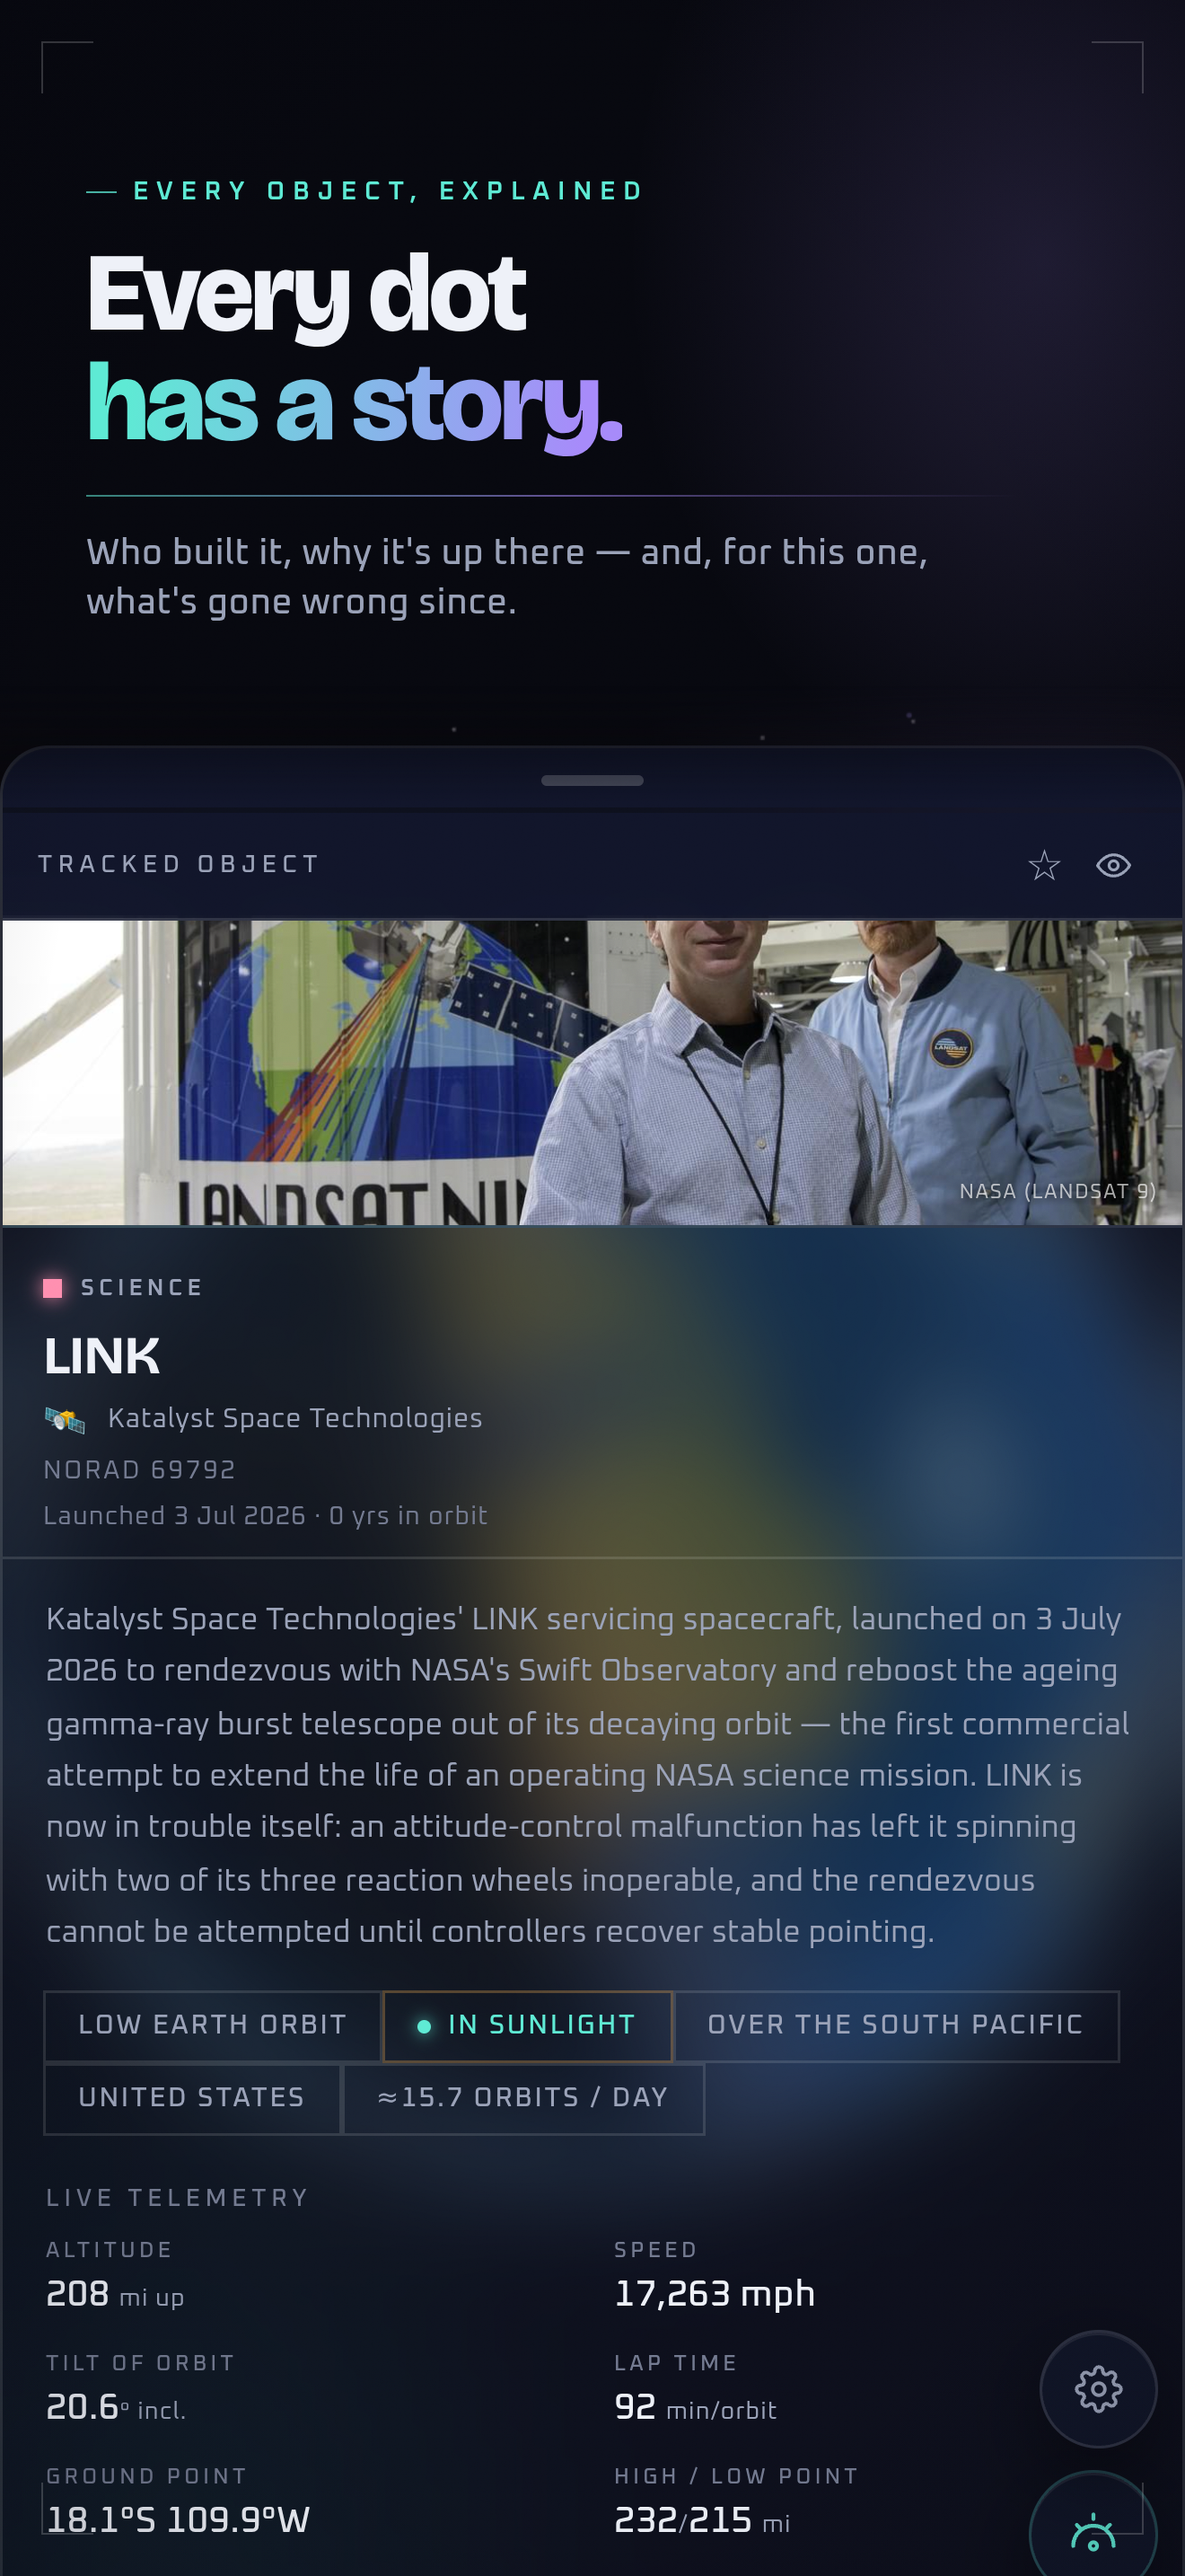
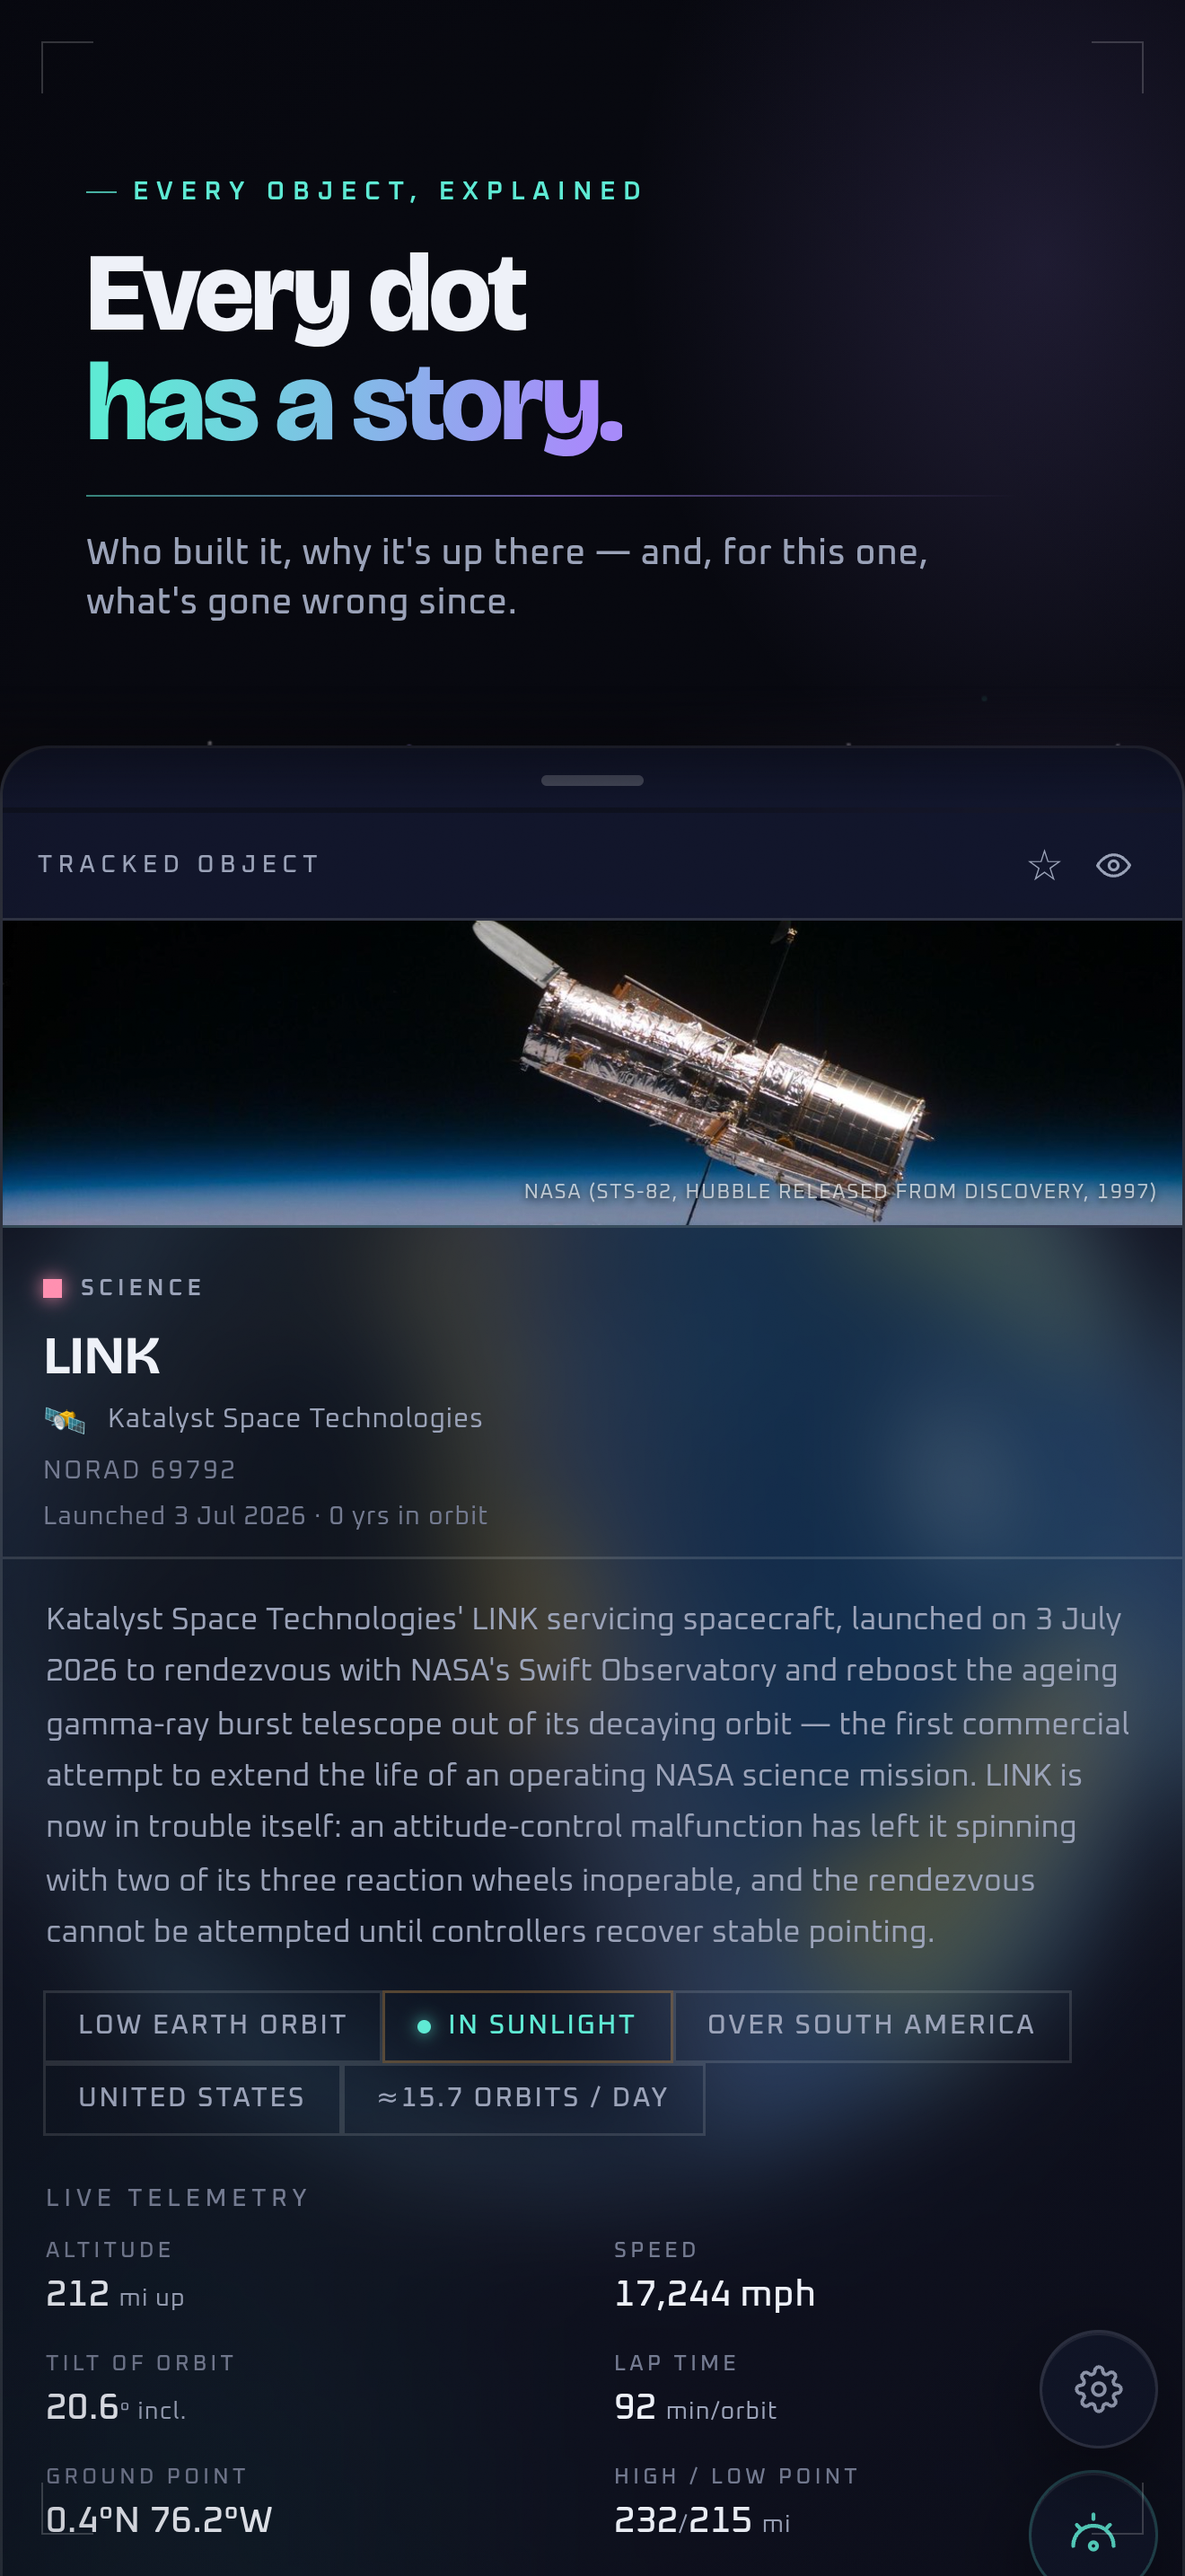
Fix screenshot photo provenance, overhead copy, and add a daylight globe
Four review fixes.

1. The "SOURCE UNCONFIRMED — PRE-EXISTING IMAGE" line is gone from every
screenshot. It was not debug text: the app draws it from photos.json's
`credit` field, and it was the honest label for images whose origin
nobody had established. Hiding it in the capture would have cleaned up
the marketing while leaving the rights problem in the shipped app, so the
three photos this set uses were replaced with NASA public-domain images
carrying verifiable IDs — iss066e081189 (ISS from Crew Dragon Endeavour's
flyaround), iss073e0505071 (Crew-11 Dragon approaching the ISS) and
s82e5937 (Hubble separating from Discovery on STS-82). The credit line
now names a real source, so the text is absent because it is no longer
true rather than because it was suppressed. Note this touches app data,
not just the screenshot kit, so it only reaches users once merged; the
README says so and records the full provenance table.

2. What's Overhead's headline and subhead replaced. The headline now runs
to three lines — two plain, then "Tap and find out." in the gradient —
so this frame drops to 96px type and starts its panel lower. The body
copy underneath loses the "overhead your location" slip; it reads "See
which satellites are currently above your location" rather than the
suggested "Tap and see ...", since the gradient line above it already
opens with "Tap".

3. LINK's photo is no longer the Landsat 9 press shot of two identifiable
[…]

diff --git a/exports/app-store-screenshots/README.md b/exports/app-store-screenshots/README.md
@@ -30,10 +30,16 @@ sky it draws is visibly, alarmingly crowded.
 | # | File | Says | Shows |
 |---|---|---|---|
 | 1 | `01-look-up.png` | Look up. **It's crowded.** | The live globe, terminator down the left limb, night-side city lights, full Orbit Classes legend |
-| 2 | `02-overhead.png` | Right now, **See what objects are overhead** | What's Overhead from Los Angeles — category chips, tier-ranked list |
+| 2 | `02-overhead.png` | What's flying over your head right now? **Tap and find out.** | What's Overhead from Los Angeles — category chips, tier-ranked list |
 | 3 | `03-every-dot.png` | Every dot **has a story.** | LINK's card — photo, identity, and the full curated write-up down to its failing reaction wheels |
 | 4 | `04-capsules.png` | Follow the fleet, **launch to landing.** | Crew Dragon 12 mid-mission: its photo, its DOCKED phase block ("at ISS · 33 days in this phase") and recent activity |
 | 5 | `05-crew.png` | Seven people **live up there.** | The ISS card: photo, live crew, expedition, today's activity |
+| 6 | `06-daylight.png` | Real sunlight, **real shadow.** | The daylight companion to shot 1 — one zoom step further out, sunlit hemisphere facing the camera |
+
+Shot 6 is captured by sweeping the camera past the terminator and keeping the
+frame with the highest mean luminance, rather than by a fixed rotation: which
+angle lands on full daylight depends on where the sun is at capture time, so a
+hard-coded drag count would silently produce a night shot on a later re-run.
 
 Shot 2 is the conversion shot. A globe is impressive; *your* sky is personal.
 
@@ -110,17 +116,37 @@ retired orbit ring.
 1080×1350. It isn't in the final five — the set was stronger with the crew shot
 — but it's the cleanest single asset for social or a press kit.
 
+## Photo provenance
+
+Every object photo in this set is a NASA public-domain image with a verifiable
+ID, sourced from `images-api.nasa.gov`. None contains an identifiable person.
+
+| Slot | NASA ID | Subject |
+|---|---|---|
+| `iss` | `iss066e081189` | ISS from Crew Dragon Endeavour's flyaround, 8 Nov 2021 |
+| `dragon` | `iss073e0505071` | Crew-11 Dragon approaching the ISS, 2 Aug 2025 |
+| `science_generic` pool[1] | `s82e5937` | Hubble separating from Discovery after release, STS-82, Feb 1997 |
+
+This replaced three images the app was shipping under the credit "Source
+unconfirmed — pre-existing image" (`iss`, `dragon`) and a NASA Landsat 9 press
+photo of two identifiable people (`science_generic` pool[1], which is the entry
+LINK's ID hashes to). The credit line the app draws over each photo now names a
+real source, so the "source unconfirmed" text is absent from these screenshots
+because it is no longer true — not because it was hidden.
+
+**These are app-data changes, not screenshot-only ones**
+(`apps/web/public/data/photos.json` plus three files in
+`apps/web/public/photos/`), so they only reach users once merged. They are
+separable from the screenshots if you would rather land them on their own.
+
 ## Known issues these screenshots had to work around
 
-1. **Photo provenance — visible on shots 4 and 5.** 11 of the 20 entries in
-   `apps/web/public/data/photos.json` — including `iss`, `hubble`, `jwst`,
-   `dragon`, `soyuz`, `cygnus` and all five asteroids — are credited "Source
-   unconfirmed — pre-existing image", and the app renders that credit over the
-   photo. Both card shots that show an object photo therefore carry that line,
-   small, at the photo's bottom right. Unknown provenance is a rights problem
-   on a public store listing regardless of the screenshots; replacing those 11
-   files with properly-licensed NASA/ESA/SpaceX imagery fixes the listing and
-   the app in one move, and these screenshots would only need a re-run.
+1. **14 photo entries elsewhere in the app are still unconfirmed.** `hubble`,
+   `jwst`, `soyuz`, `cygnus`, all five asteroids, and index 0 of each of the
+   five generic pools still carry "Source unconfirmed — pre-existing image".
+   None of them appears in this screenshot set, but each is the same rights
+   question, and any of them can surface in the app the moment a user taps the
+   wrong object. The three above show the pattern for fixing the rest.
 2. **The mobile clock reads 12-hour with no meridiem.** `clock.js` renders
    `.utc-compact` as `6:44 UTC` when it is 18:44 UTC (the share card's own
    timestamp correctly says `18:44 UTC`). It's deliberate CSS, but it sits in
@@ -128,7 +154,8 @@ retired orbit ring.
 3. **Time Machine can't be shown at all.** `#time` is `display:none !important`
    under 768px — it's desktop-only, so it cannot appear in an iPhone
    screenshot.
-4. **LINK's photo is a category-generic Landsat 9 press image.** Correctly
-   credited, and shown by request, but at a glance it reads as "this is
-   Landsat" rather than as an illustration of the science category. A curated
-   photo for LINK, or a procedural fallback, would both be clearer.
+4. **LINK still shows a category-generic photo**, now Hubble rather than the
+   Landsat press shot. It is a real satellite on orbit and thematically apt —
+   LINK's own mission is to reboost an ageing space telescope — but it is not a
+   picture of LINK. A curated photo keyed to LINK's NORAD ID would be exact;
+   no public image of the spacecraft on orbit appears to exist yet.
